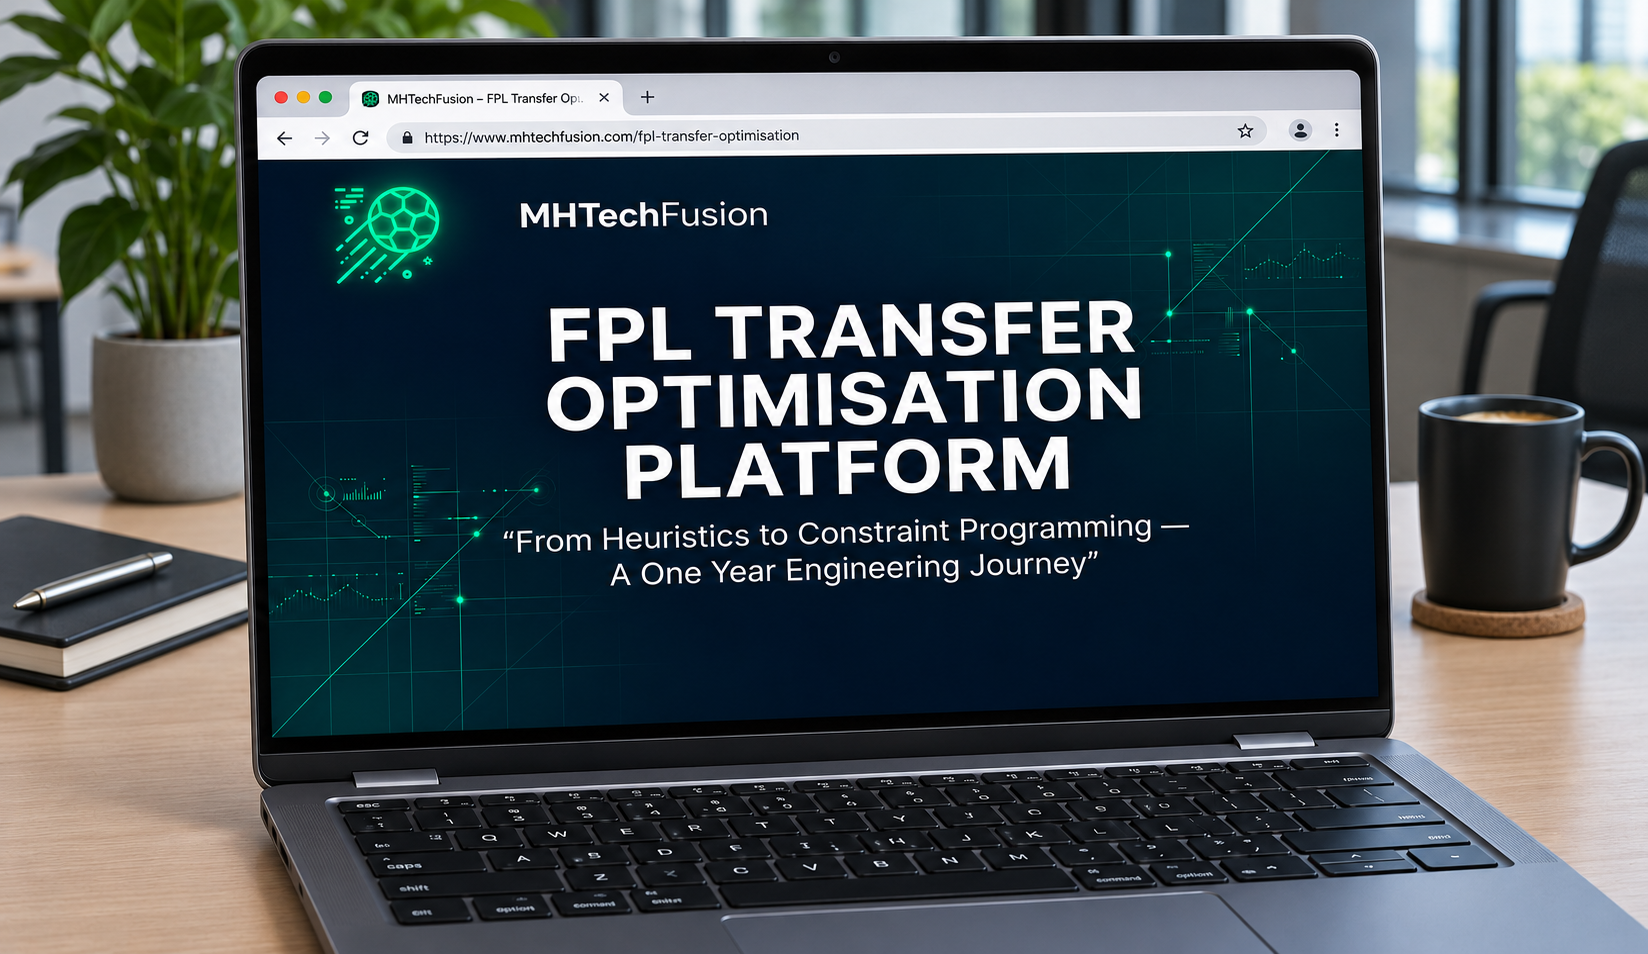
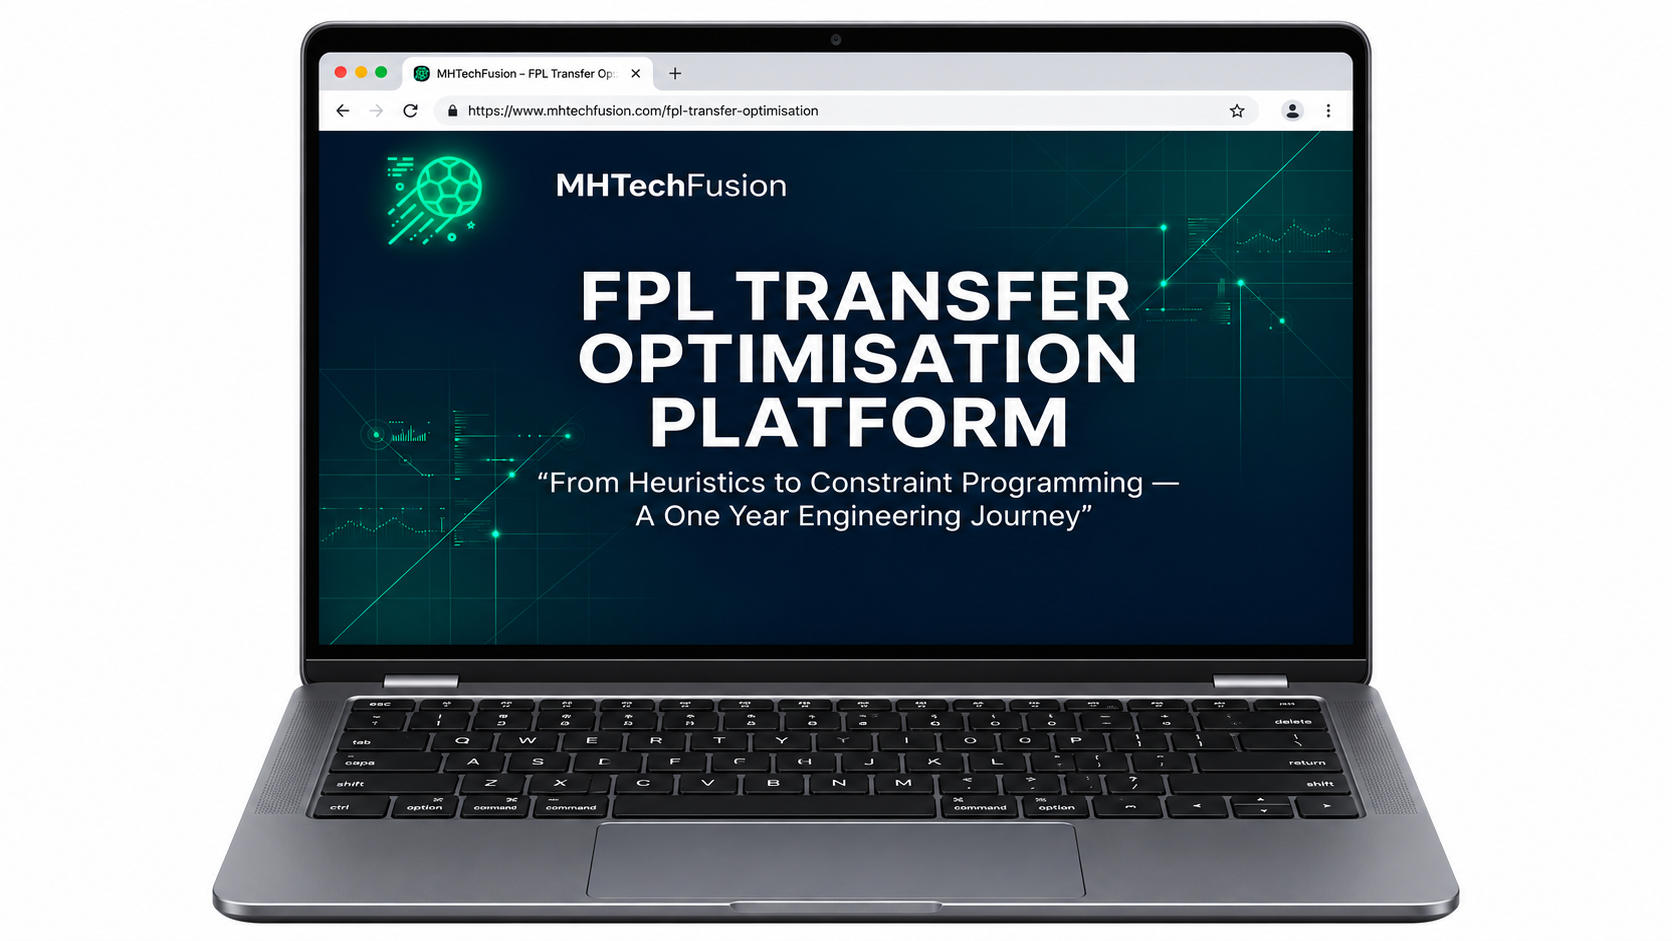
Improve FPL images

diff --git a/src/lib/projects.ts b/src/lib/projects.ts
@@ -377,11 +377,11 @@ export const PROJECTS: Project[] = [
         alt: "FPL transfer optimisation system",
       },
       {
-        src: "/fpl/fpl-3.jpg",
+        src: "/fpl/fpl-3.png",
         alt: "FPL transfer optimisation system",
       },
       {
-        src: "/fpl/fpl-4.jpg",
+        src: "/fpl/fpl-4.png",
         alt: "FPL transfer optimisation system",
       },
       {
@@ -389,7 +389,7 @@ export const PROJECTS: Project[] = [
         alt: "FPL transfer optimisation system",
       },
       {
-        src: "/fpl/fpl-6.jpg",
+        src: "/fpl/fpl-6.png",
         alt: "FPL transfer optimisation system",
       },
     ],
